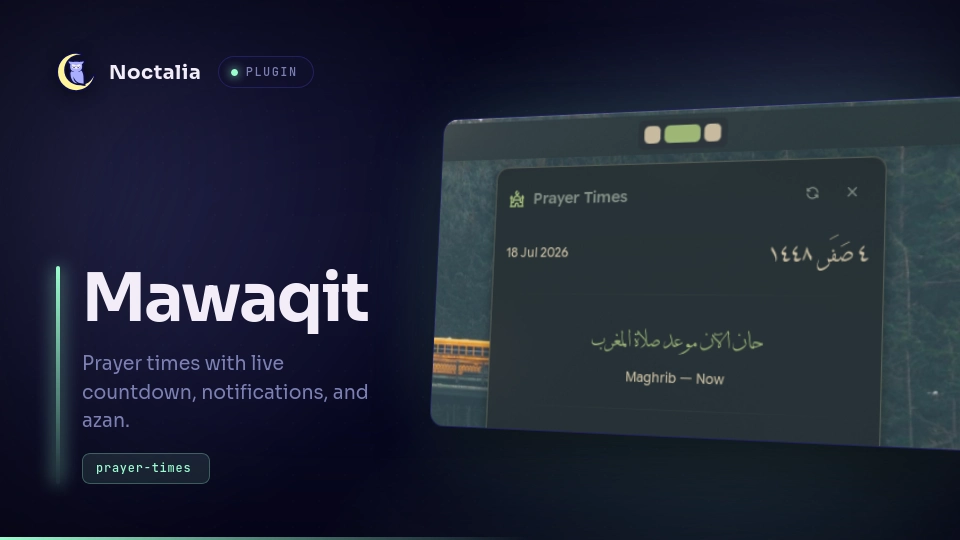
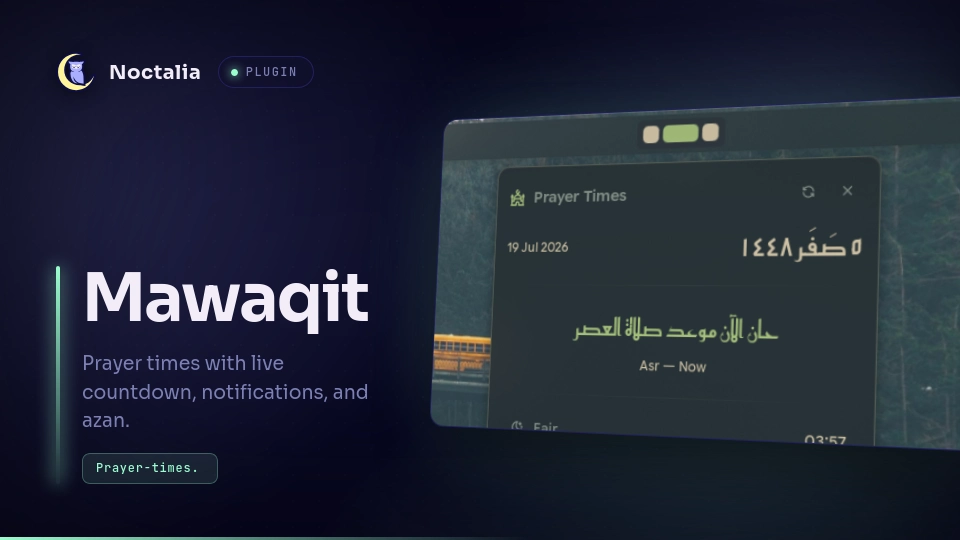
Address review feedback

diff --git a/mawaqit/README.md b/mawaqit/README.md
@@ -1,78 +1,112 @@
-# Mawaqit for Noctalia
+# Mawaqit
 
-Prayer times for Noctalia v5 — live countdown, notifications, and azan playback, with a bar widget and a panel view.
+Prayer times for Noctalia, with a bar widget and panel: live countdown to the next
+prayer, notifications, optional azan playback, Hijri date, and per-prayer time
+offsets.
 
 ## Plugin
 
-| Entry | ID | Type |
-|---|---|---|
-| Bar widget | `ycf/mawaqit:bar` | `[[widget]]` |
-| Prayer times panel | `ycf/mawaqit:panel` | `[[panel]]` |
-| Background fetcher | `ycf/mawaqit:fetcher` | `[[service]]` |
-
-## Usage
-
-- **Left click** the bar widget → cycles display mode: countdown → static time → prayer name only
-- **Right click** the bar widget → open the prayer times panel
-
-Toggle the panel directly:
-```
-noctalia msg panel-toggle ycf/mawaqit:panel
-```
+| Field   | Value                                                        |
+| ------- | ------------------------------------------------------------ |
+| ID      | `ycf/mawaqit`                                                 |
+| Entries | Bar widget: `bar`; panel: `panel`; service: `fetcher`         |
 
 ## Requirements
 
-- `paplay` (PipeWire/PulseAudio) **or** `pw-cat` — only one is required, used for azan playback. If neither is installed, azan is silently skipped (a line is logged) and notifications still work normally.
+Install `paplay` (PipeWire/PulseAudio) **or** `pw-cat` on `PATH` — only one is
+required, used for azan playback. If neither is installed, azan is skipped (a
+line is logged) and everything else — countdown, panel, notifications — works
+normally.
+
+Azan audio is **not bundled**. To enable it:
+
+1. Get your own azan `.mp3` file(s) from wherever you like.
+2. Copy them into this plugin's `assets/` folder, named exactly `azan1.mp3`,
+   `azan2.mp3`, and/or `azan3.mp3` (only the ones you want to use — you don't
+   need all three).
+3. In Settings → Plugins → Mawaqit, turn on **Play Azan** and pick which of
+   the three slots to play from **Azan audio**.
+
+If the selected file isn't present, azan is silently skipped and a line is
+logged — nothing else is affected.
+
+## Usage
+
+- **Left click** the bar widget → open the prayer times panel.
+- **Right click** the bar widget → cycle its display mode: live countdown →
+  static time → prayer name only.
+
+Toggle the panel directly:
+
+```sh
+noctalia msg panel-toggle ycf/mawaqit:panel
+```
+
+The panel shows all five daily prayers plus Sunrise and, during Ramadan, Imsak,
+with a live countdown banner to whichever is next, the Gregorian and Hijri
+date, and a refresh button. If azan is playing, a stop button appears next to
+it.
 
 ## Settings
 
-Open **Settings → Plugins → Mawaqit** to configure:
+Plugin-level (Settings → Plugins → Mawaqit):
 
-| Setting | Description |
-|---|---|
-| City / Country | Location used for prayer time lookups |
-| Calculation method | One of the standard Islamic calculation conventions (MWL, ISNA, Makkah, Egypt, etc.) |
-| School | Asr calculation convention — Shafi or Hanafi |
-| Hijri day offset | Shift the displayed Hijri day by −1/0/+1 if the API date doesn't match local moon sighting |
-| 12-hour format | Show prayer times as 12-hour (e.g. `5:23 AM`) instead of 24-hour |
-| Show notifications | Notify at each prayer time |
-| Play azan | Play an azan audio file at each prayer time |
-| Azan file | Which of the three bundled azan tracks to play |
-| Prayer time offsets (tune) | Per-prayer minute adjustment, −60 to +60, applied after fetching |
+| Setting             | Type     | Default | Description                                                              |
+| -------------------- | -------- | ------- | -------------------------------------------------------------------------- |
+| `city`               | `string` | `London` | Your city name in English.                                                |
+| `country`            | `string` | `UK`     | Country name or 2-letter code.                                            |
+| `method`             | `select` | `3` (MWL) | Calculation authority followed in your region.                          |
+| `school`             | `select` | `0` (Shafi/Maliki/Hanbali) | Asr convention — Hanafi uses a later shadow factor.               |
+| `hijriDayOffset`     | `select` | `0`     | Shift the displayed Hijri day by −1/0/+1 if it doesn't match local moon sighting. |
+| `twelveHourFormat`   | `bool`   | `false` | Show prayer times as 12-hour (e.g. `5:23 AM`) instead of 24-hour.         |
+| `showNotifications`  | `bool`   | `true`  | Show a system notification when each prayer time begins.                 |
+| `playAzan`           | `bool`   | `false` | Play an azan audio file when each prayer time begins.                    |
+| `azanFile`           | `select` | `azan1.mp3` | Which bundled azan track to play (see Requirements for setup).      |
+| `tune`               | `bool`   | `false` | Enable the per-prayer minute offsets below.                              |
+| `tuneFajr`           | `int`    | `0`     | Fajr offset, in minutes (−60 to 60).                                     |
+| `tuneDhuhr`          | `int`    | `0`     | Dhuhr offset, in minutes.                                                |
+| `tuneAsr`            | `int`    | `0`     | Asr offset, in minutes.                                                  |
+| `tuneMaghrib`        | `int`    | `0`     | Maghrib offset, in minutes.                                              |
+| `tuneIsha`           | `int`    | `0`     | Isha offset, in minutes.                                                 |
 
-Bar widget settings (icon, colors, countdown/elapsed display, dynamic icon) are configured separately, from the widget's own settings menu.
+Bar widget settings (from the widget's own settings menu):
 
-## File structure
+| Setting            | Type     | Default            | Description                                                    |
+| ------------------- | -------- | ------------------- | ------------------------------------------------------------------ |
+| `showCountdown`     | `bool`   | `true`              | Show a live countdown to the next prayer instead of the static time. |
+| `showElapsed`       | `bool`   | `false`             | After a prayer begins, count up (`+`) for up to 1 hour.            |
+| `hidePrayerName`    | `bool`   | `false`             | Show only the time or countdown, without the prayer name.          |
+| `widgetIcon`        | `glyph`  | `building-mosque`   | Bar icon.                                                           |
+| `dynamicIcon`       | `bool`   | `false`             | Show a sun/moon icon matching the current prayer instead of the fixed icon. |
+| `textColor`         | `color`  | `on_surface`        | Bar text color.                                                     |
+| `iconColor`         | `color`  | `on_surface`        | Bar icon color.                                                     |
+| `activeColor`       | `color`  | `primary`           | Color used when a prayer is happening now or during elapsed mode.   |
 
-```
-mawaqit/
-├── plugin.toml
-├── bar_widget.luau
-├── panel.luau
-├── service.luau
-├── DecoType.ttf
-├── thumbnail.webp
-├── translations/
-│   └── en.json
-└── assets/
-    ├── azan1.mp3
-    ├── azan2.mp3
-    └── azan3.mp3
-```
+## IPC
 
-## Development
+Force an immediate refetch (both the service and the bar widget respond):
 
-To run this plugin from a local checkout while working on it:
-
-```
-noctalia msg plugins source add dev path ~/dev/mawaqit
-noctalia msg plugins enable ycf/mawaqit
+```sh
+noctalia msg plugin ycf/mawaqit:fetcher all refresh
 ```
 
-`.luau` edits hot-reload; manifest changes are picked up on the next config reload.
+Set the bar widget's display mode directly:
+
+```sh
+noctalia msg plugin ycf/mawaqit:bar all mode countdown|static|name
+```
 
 ## Notes
 
-- The background service fetches prayer times once daily from `api.aladhan.com`, sending the configured city/country/method/school as query parameters. It also fetches the following day's Fajr time in advance, for the countdown after Isha.
-- Azan playback runs `paplay` or `pw-cat` against a bundled file in `assets/`; the running process is force-stopped (`pkill`) when the plugin exits or is disabled, and can also be stopped manually from the panel while azan is playing.
-- `DecoType.ttf` is bundled and used to render the Arabic Hijri date and prayer-time announcement in the panel; it's loaded from the plugin's own directory.
+- The background service fetches prayer times once daily from
+  `api.aladhan.com`, sending the configured city/country/method/school as
+  query parameters, plus a second request for the next day's Fajr time (used
+  for the countdown after Isha).
+- Azan playback runs `paplay` or `pw-cat` against a file **you supply** (see
+  Requirements) — no audio is bundled with this plugin. Playback is stopped
+  by matching the exact file path being played (via `pkill -f`). Stopping happens when the plugin exits or is disabled, or
+  manually from the panel while azan is playing.
+- The Arabic Hijri date and prayer-time banner are rendered with the bundled
+  Reem Kufi font (`ReemKufi.ttf`), licensed under the SIL Open Font License —
+  see `OFL.txt`.
+- No compositor-specific behavior — works anywhere Noctalia's bar and panels do.